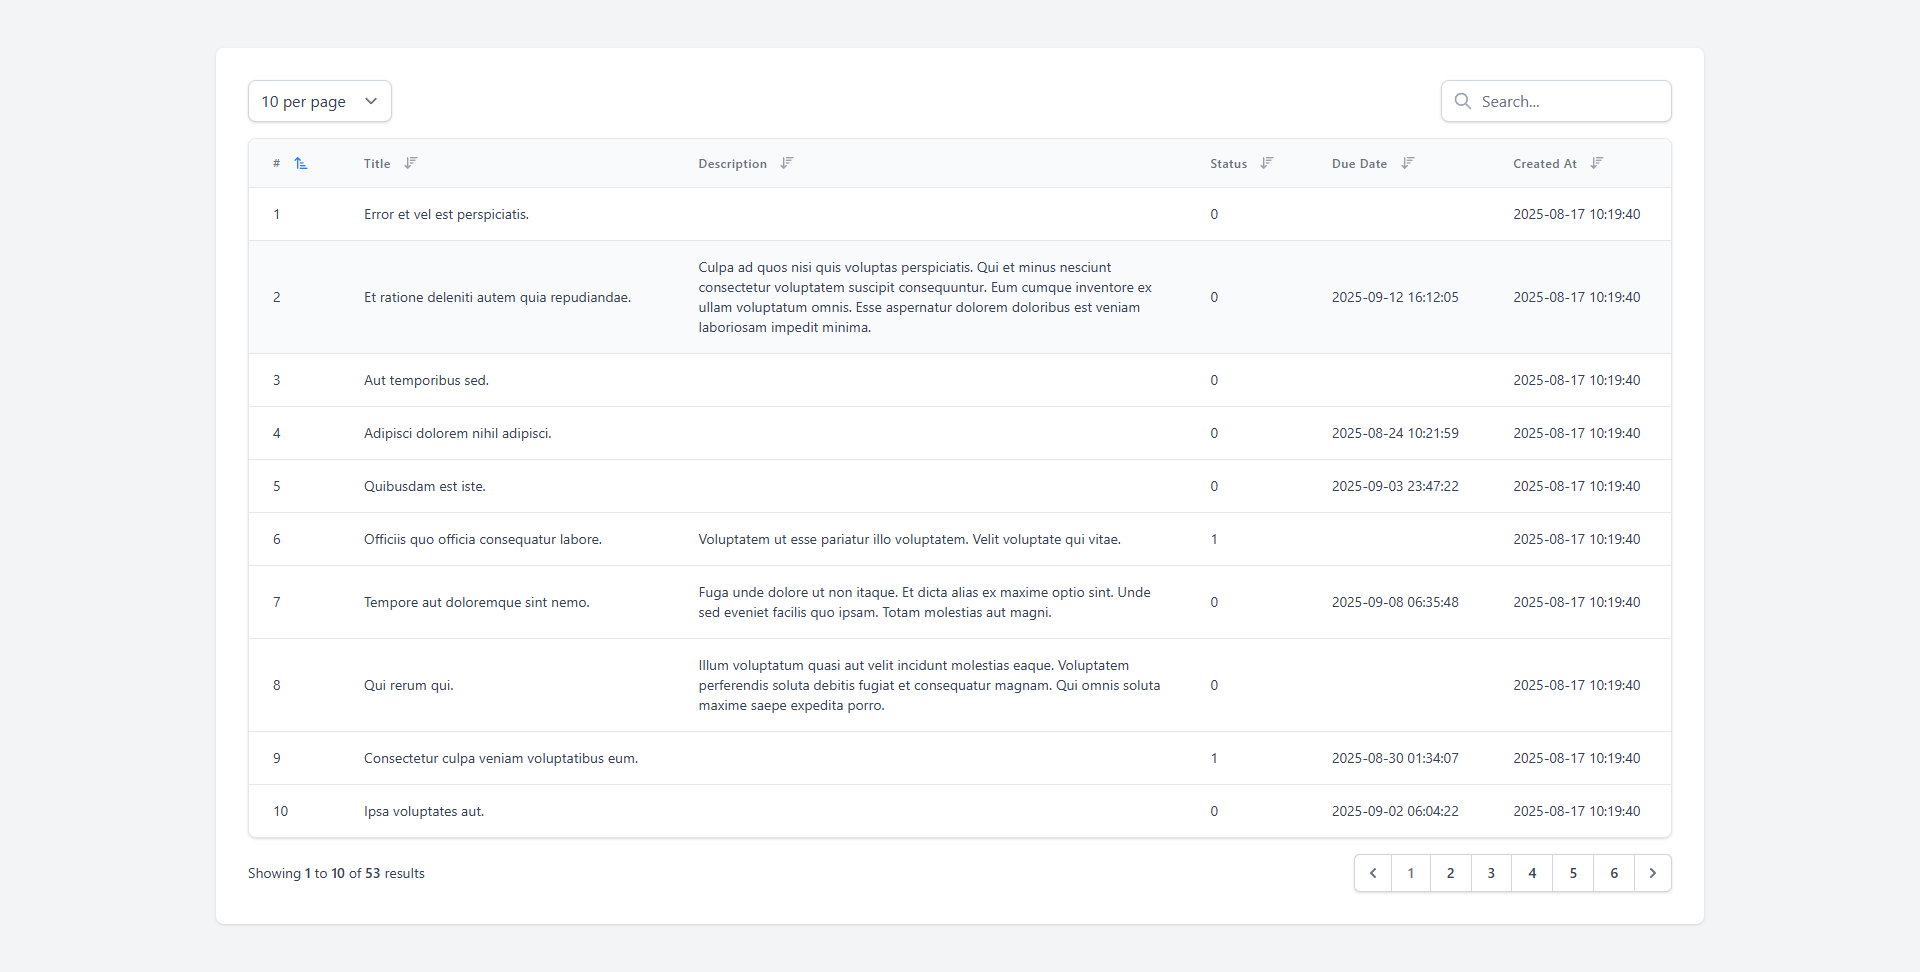
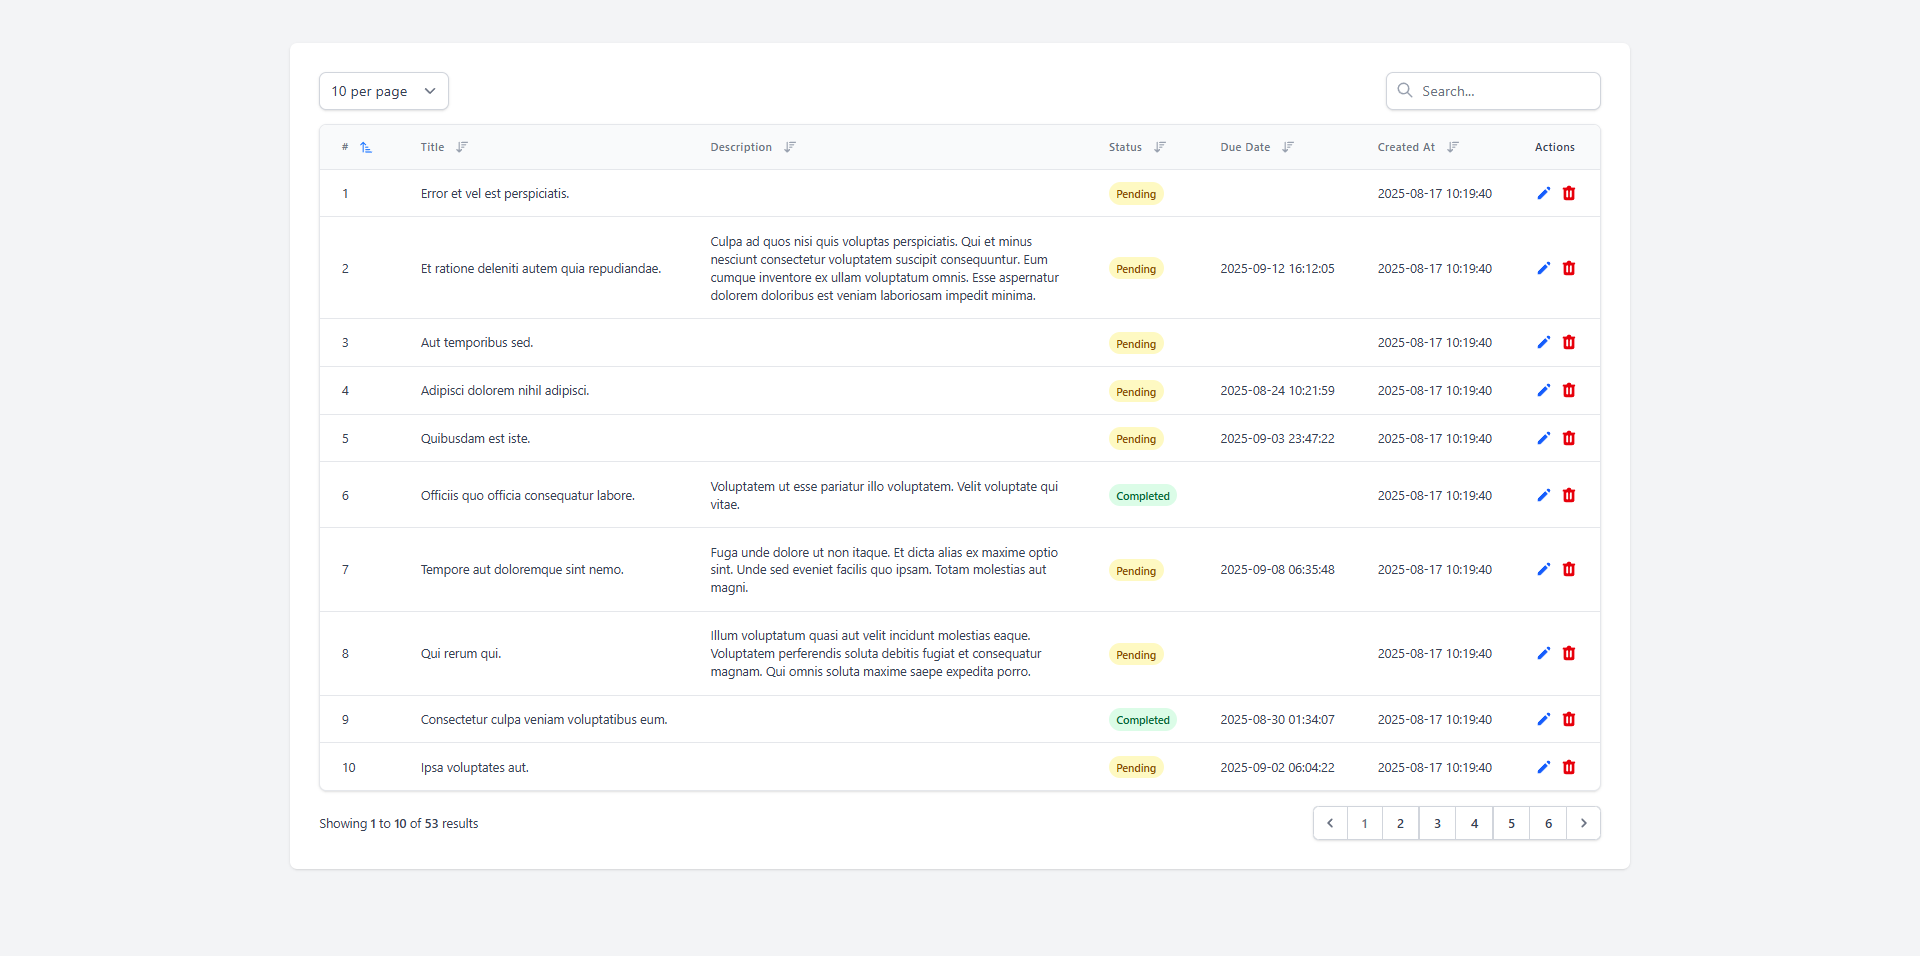
feat: allow custom element on cell

diff --git a/src/Components/DataTable.php b/src/Components/DataTable.php
@@ -22,6 +22,7 @@ class DataTable extends Component
     public $sortDirection = 'asc';
     public $pageOptions;
     public $theme = [];
+    public $customColumns = [];
 
     protected function queryString()
     {
@@ -33,12 +34,13 @@ class DataTable extends Component
         ];
     }
 
-    public function mount($model, $columns = [], $searchable = [], $unsortable = [], $theme = [])
+    public function mount($model, $columns = [], $searchable = [], $unsortable = [], $theme = [], $customColumns = [])
     {
         $this->model = $model;
         $this->columns = $columns;
         $this->searchable = $searchable;
         $this->unsortable = $unsortable;
+        $this->customColumns = $customColumns;
         // By default, all columns are sortable except those in unsortable array
         $this->sortable = array_diff(array_keys($columns), $unsortable);
 

diff --git a/resources/views/datatable.blade.php b/resources/views/datatable.blade.php
@@ -78,7 +78,14 @@
                                 $this->getClass('td'),
                                 $this->getClass("td_{$key}"), // Column-specific class
                             ]) wire:key="cell-{{ $key }}">
-                                {{ data_get($item, $key) }}
+                                @if (isset($customColumns[$key]))
+                                    @include($customColumns[$key], [
+                                        'item' => $item,
+                                        'value' => data_get($item, $key),
+                                    ])
+                                @else
+                                    {{ data_get($item, $key) }}
+                                @endif
                             </td>
                         @endforeach
                     </tr>

diff --git a/README.md b/README.md
@@ -167,6 +167,113 @@ You can specify which columns should not be sortable:
 />
 ```
 
+### Custom Cell Elements
+
+You can render custom HTML elements (like buttons, links, or any other custom content) in table cells using custom views:
+
+```php
+// In your Livewire component
+public function render()
+{
+    return view('livewire.users-table', [
+        'model' => User::class,
+        'columns' => [
+            'id' => 'ID',
+            'name' => 'Name',
+            'email' => 'Email',
+            'actions' => 'Actions'  // This column will use a custom view
+        ],
+        'customColumns' => [
+            'actions' => 'components.table.action-buttons'  // Path to your custom view
+        ]
+    ]);
+}
+```
+
+Create a blade view for your custom cell content (e.g., `resources/views/components/table/action-buttons.blade.php`):
+
+````blade
+{{-- The view receives $item (the model instance) and $value (the column value) --}}
+Create a blade view for your custom cell content (e.g., `resources/views/components/table/action-buttons.blade.php`):
+
+```blade
+{{-- The view receives $item (the model instance) and $value (the column value) --}}
+<div class="flex space-x-2">
+    <button wire:click="$dispatch('user-edit', { id: {{ $item->id }} })" class="text-blue-600 hover:text-blue-800">
+        <svg xmlns="http://www.w3.org/2000/svg" class="h-5 w-5" viewBox="0 0 20 20" fill="currentColor">
+            <path d="M13.586 3.586a2 2 0 112.828 2.828l-.793.793-2.828-2.828.793-.793zM11.379 5.793L3 14.172V17h2.828l8.38-8.379-2.83-2.828z" />
+        </svg>
+    </button>
+    <button wire:click="$dispatch('user-delete', { id: {{ $item->id }} })" class="text-red-600 hover:text-red-800">
+        <svg xmlns="http://www.w3.org/2000/svg" class="h-5 w-5" viewBox="0 0 20 20" fill="currentColor">
+            <path fill-rule="evenodd" d="M9 2a1 1 0 00-.894.553L7.382 4H4a1 1 0 000 2v10a2 2 0 002 2h8a2 2 0 002-2V6a1 1 0 100-2h-3.382l-.724-1.447A1 1 0 0011 2H9zM7 8a1 1 0 012 0v6a1 1 0 11-2 0V8zm5-1a1 1 0 00-1 1v6a1 1 0 102 0V8a1 1 0 00-1-1z" clip-rule="evenodd" />
+        </svg>
+    </button>
+</div>
+````
+
+Then in your Livewire component, add event listeners for the actions:
+
+```php
+use Livewire\Attributes\On;
+
+class UsersTable extends Component
+{
+    #[On('user-edit')]
+    public function editUser($data)
+    {
+        // $data['id'] contains the user ID
+        // Add your edit logic here
+    }
+
+    #[On('user-delete')]
+    public function deleteUser($data)
+    {
+        // Add your delete logic here
+        $user = User::find($data['id']);
+        if ($user) {
+            $user->delete();
+            // Optionally dispatch another event
+            $this->dispatch('user-deleted');
+        }
+    }
+
+    public function render()
+    {
+        return view('livewire.users-table', [
+            'model' => User::class,
+            'columns' => [
+                'id' => 'ID',
+                'name' => 'Name',
+                'email' => 'Email',
+                'actions' => 'Actions'
+            ],
+            'customColumns' => [
+                'actions' => 'components.table.action-buttons'
+            ],
+            'unsortable' => ['actions'] // Make sure action column is not sortable
+        ]);
+    }
+}
+```
+
+The custom view receives two variables:
+
+- `$item`: The current model instance (e.g., User model)
+- `$value`: The value of the current column (useful for formatting existing data)
+
+Key points for action buttons:
+
+1. Use `wire:click="$dispatch('event-name', { id: {{ $item->id }} })"` to trigger events
+2. Events are caught using the `#[On('event-name')]` attribute in your component
+3. Event handlers receive the data as an array with the ID
+4. Remember to mark action columns as unsortable
+5. You can dispatch additional events after actions complete
+
+```
+
+```
+
 ## Theming
 
 The package comes with a beautiful default theme using Tailwind CSS, but you can fully customize it.
